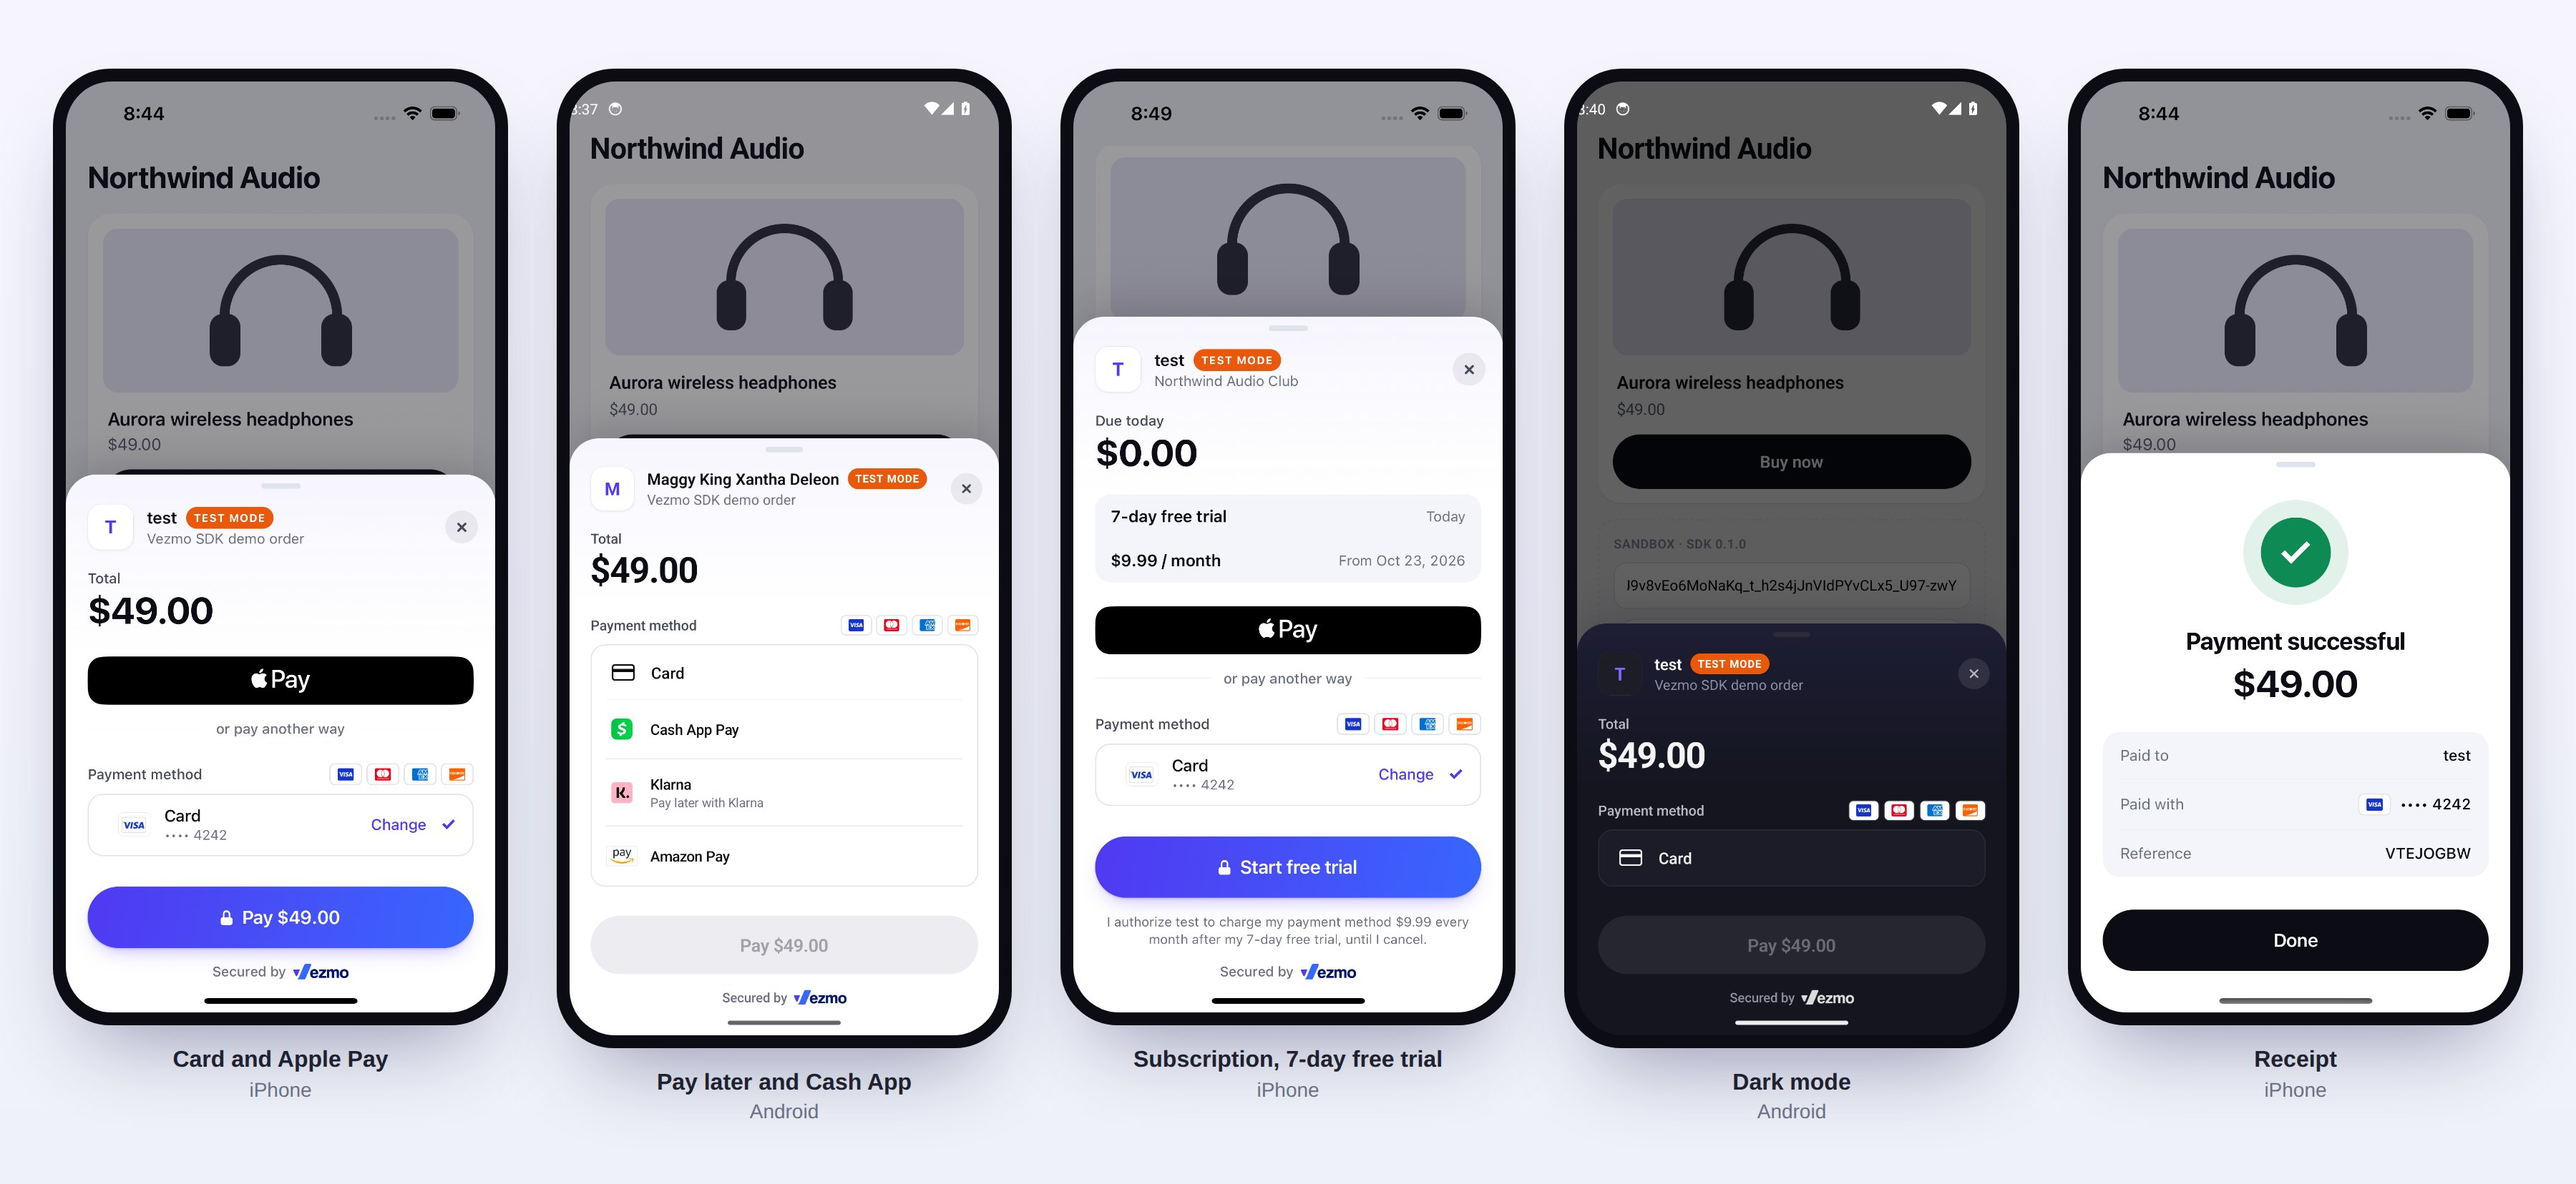
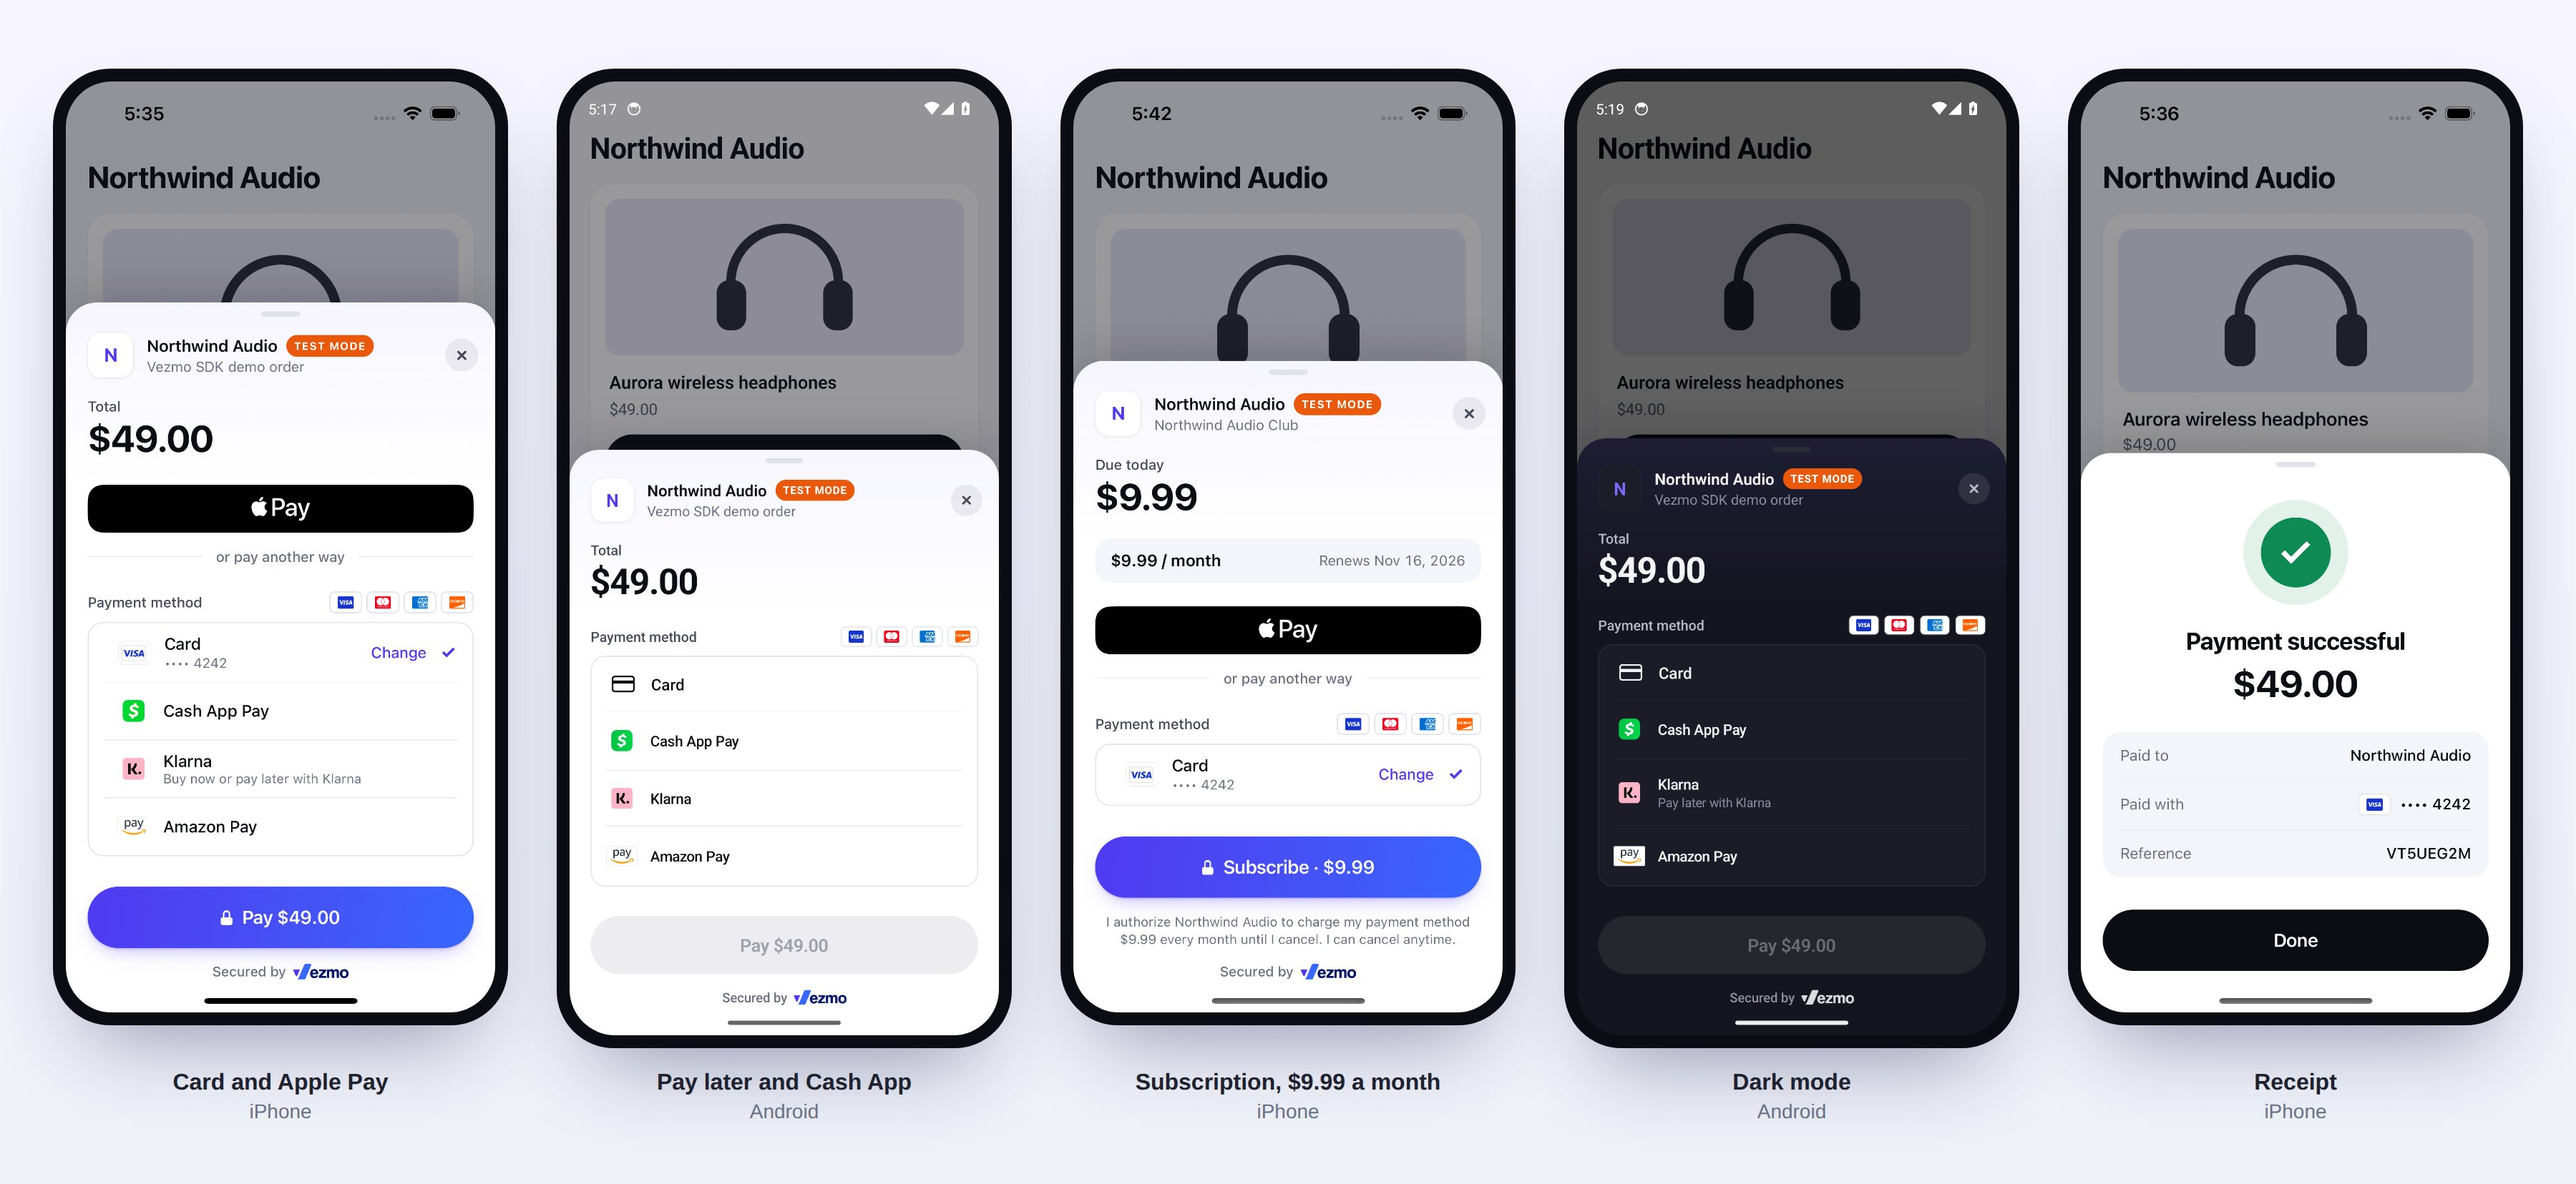
docs: README screens from the merchant-of-record demo (Northwind Audio)
Every shot now comes from the same demo business, so the sheet, the
subscription's authorization line and the receipt all name the example
shop. Captions sit on one line.

diff --git a/README.md b/README.md
@@ -11,7 +11,7 @@ Take payments in your iPhone and Android apps with Vezmo, in a native payment sh
 Google Pay, Klarna, Affirm, Afterpay, Amazon Pay, Cash App, UPI and Pix, in the buyer's own currency. Start
 subscriptions too, with a free trial or a first payment, and the card saved for the renewals.
 
-![The Vezmo payment sheet: card and Apple Pay on iPhone, pay later and Cash App on Android, a subscription with a 7-day free trial, dark mode, and the receipt](docs/images/sheet-hero.jpg)
+![The Vezmo payment sheet: card and Apple Pay on iPhone, pay later and Cash App on Android, a $9.99 monthly subscription, dark mode, and the receipt](docs/images/sheet-hero.jpg)
 
 <sub>Screens from the example apps against Vezmo's sandbox, as the end-to-end tests capture them.</sub>
 
